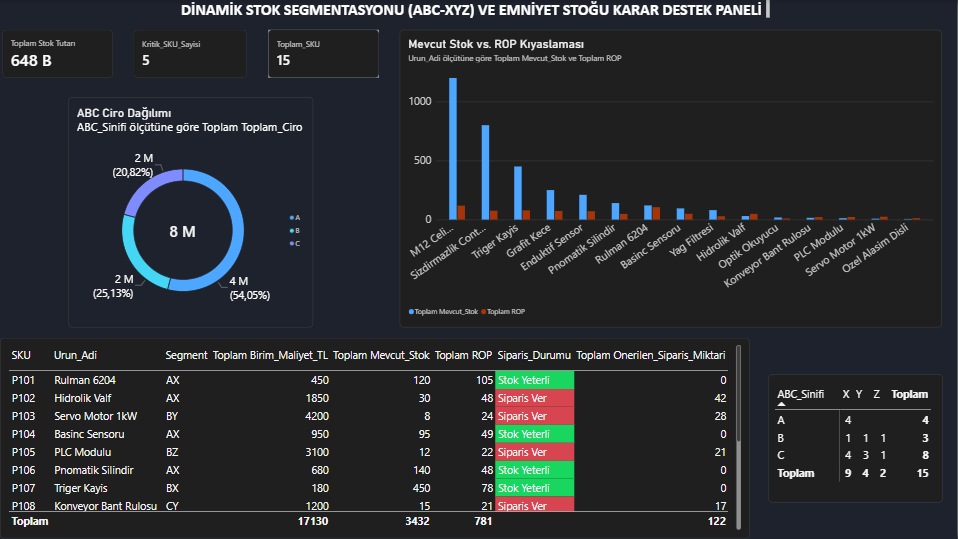
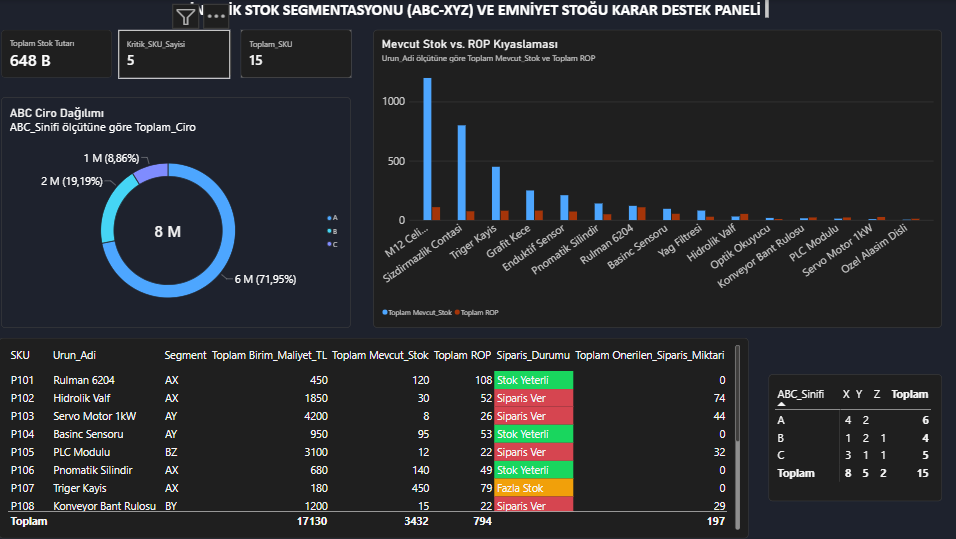
Add files via upload

diff --git a/calculate_rop.py b/calculate_rop.py
@@ -1,6 +1,6 @@
-"""Proje: Dinamik Stok Segmentasyonu ve Emniyet Stoku Modeli
+"""Proje: Dinamik Stok Segmentasyonu (ABC-XYZ) ve Emniyet Stoğu Karar Destek Modeli
 Yazar: Ahmet Cenk Semerci
-Metodoloji: Pareto Analizi (ABC), Varyasyon Katsayisi (XYZ) ve Dinamik ROP Modeli
+Metodoloji: Pareto Analizi (ABC), Varyasyon Katsayısı (XYZ) ve Olasılıksal ROP Modeli
 """
 
 import numpy as np
@@ -11,33 +11,36 @@ def run_inventory_analysis(input_file, output_file):
     df = pd.read_csv(input_file)
     aylar = [f"Ay_{i}" for i in range(1, 13)]
 
-    # 1. Talep & Ciro Metrikleri
+    # 1. Talep & Ciro Metrikleri (Yıllık 365 gün ve ortalama 365/12 = 30.42 gün/ay ölçeklemesi)
     df["Toplam_Talep"] = df[aylar].sum(axis=1)
     df["Ortalama_Aylik_Talep"] = df[aylar].mean(axis=1)
     df["Std_Talep"] = df[aylar].std(axis=1)
     df["Toplam_Ciro"] = df["Toplam_Talep"] * df["Birim_Maliyet_TL"]
-    df["Gunluk_Ortalama_Talep"] = df["Toplam_Talep"] / 365
+    df["Gunluk_Ortalama_Talep"] = df["Toplam_Talep"] / 365.0
 
-    # 2. XYZ Segmentasyonu (Varyasyon Katsayısı)
-    df["CV"] = (df["Std_Talep"] / df["Ortalama_Aylik_Talep"]).round(2)
+    # 2. XYZ Segmentasyonu (Ham CV ile Sınıflandırma - P105 yuvarlama hatası giderildi)
+    cv_ham = df["Std_Talep"] / df["Ortalama_Aylik_Talep"]
     df["XYZ_Sinifi"] = np.where(
-        df["CV"] <= 0.20, "X", np.where(df["CV"] <= 0.50, "Y", "Z")
+        cv_ham <= 0.20, "X", np.where(cv_ham <= 0.50, "Y", "Z")
     )
+    df["CV"] = cv_ham.round(2)
 
-    # 3. ABC Segmentasyonu (Pareto Analizi)
+    # 3. ABC Segmentasyonu (Pareto Analizi - %70 / %90 Kapsayıcı Sınır Kuralı)
     df = df.sort_values(by="Toplam_Ciro", ascending=False).reset_index(drop=True)
     df["Kumulatif_Ciro"] = df["Toplam_Ciro"].cumsum()
     df["Kumulatif_Yuzde"] = df["Kumulatif_Ciro"] / df["Toplam_Ciro"].sum()
+    onceki_kumulatif = df["Kumulatif_Yuzde"].shift(1, fill_value=0.0)
     df["ABC_Sinifi"] = np.where(
-        df["Kumulatif_Yuzde"] <= 0.70,
+        onceki_kumulatif < 0.70,
         "A",
-        np.where(df["Kumulatif_Yuzde"] <= 0.90, "B", "C"),
+        np.where(onceki_kumulatif < 0.90, "B", "C"),
     )
     df["Segment"] = df["ABC_Sinifi"] + df["XYZ_Sinifi"]
 
-    # 4. Emniyet Stoku ve ROP (Z = 1.65 / %95 Servis Seviyesi)
+    # 4. Emniyet Stoğu ve ROP (Z = 1.65 / %95 Servis Seviyesi, Sabit Tedarik Süresi)
     Z = 1.65
-    df["Gunluk_Std"] = df["Std_Talep"] / np.sqrt(30)
+    ortalama_ay_gunu = 365.0 / 12.0
+    df["Gunluk_Std"] = df["Std_Talep"] / np.sqrt(ortalama_ay_gunu)
     df["Emniyet_Stogu"] = np.ceil(
         Z * df["Gunluk_Std"] * np.sqrt(df["Tedarik_Suresi_Gun"])
     ).astype(int)
@@ -46,13 +49,18 @@ def run_inventory_analysis(input_file, output_file):
         + df["Emniyet_Stogu"]
     ).astype(int)
 
-    # 5. Karar Destek Çıktıları
+    # 5. Karar Destek Çıktıları (Sipariş Alarmı & Fazla Stok Tespiti: Mevcut Stok > 3 * ROP)
     df["Siparis_Durumu"] = np.where(
-        df["Mevcut_Stok"] <= df["ROP"], "Siparis Ver", "Stok Yeterli"
+        df["Mevcut_Stok"] <= df["ROP"],
+        "Siparis Ver",
+        np.where(df["Mevcut_Stok"] > (df["ROP"] * 3), "Fazla Stok", "Stok Yeterli"),
     )
     df["Onerilen_Siparis_Miktari"] = np.where(
         df["Mevcut_Stok"] <= df["ROP"], (df["ROP"] * 2) - df["Mevcut_Stok"], 0
     ).astype(int)
+
+    # SKU koduna göre sırala ve dışa aktar
+    df = df.sort_values(by="SKU").reset_index(drop=True)
 
     cols_to_export = [
         "SKU",
